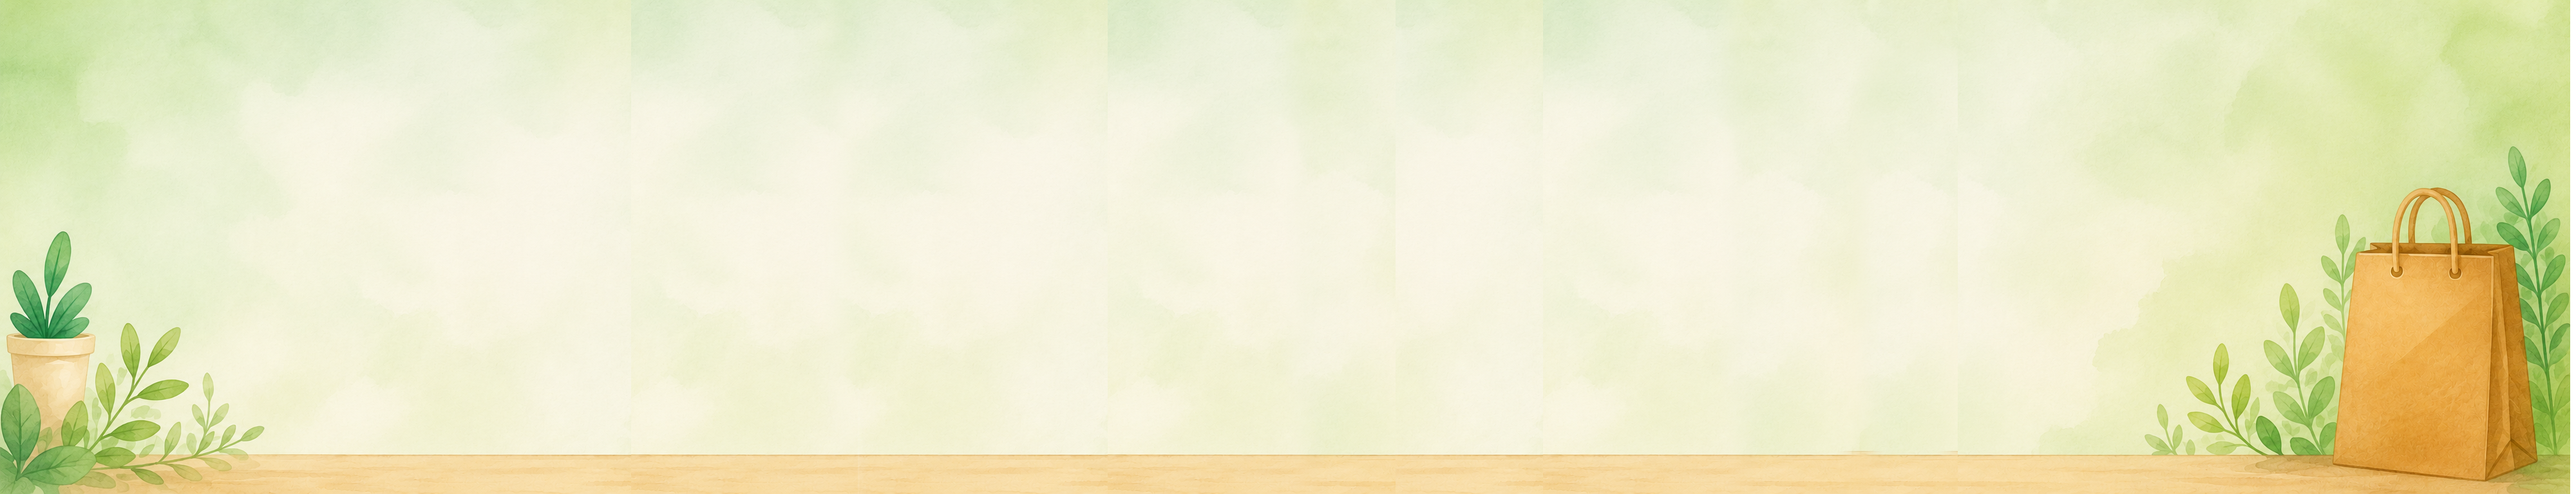
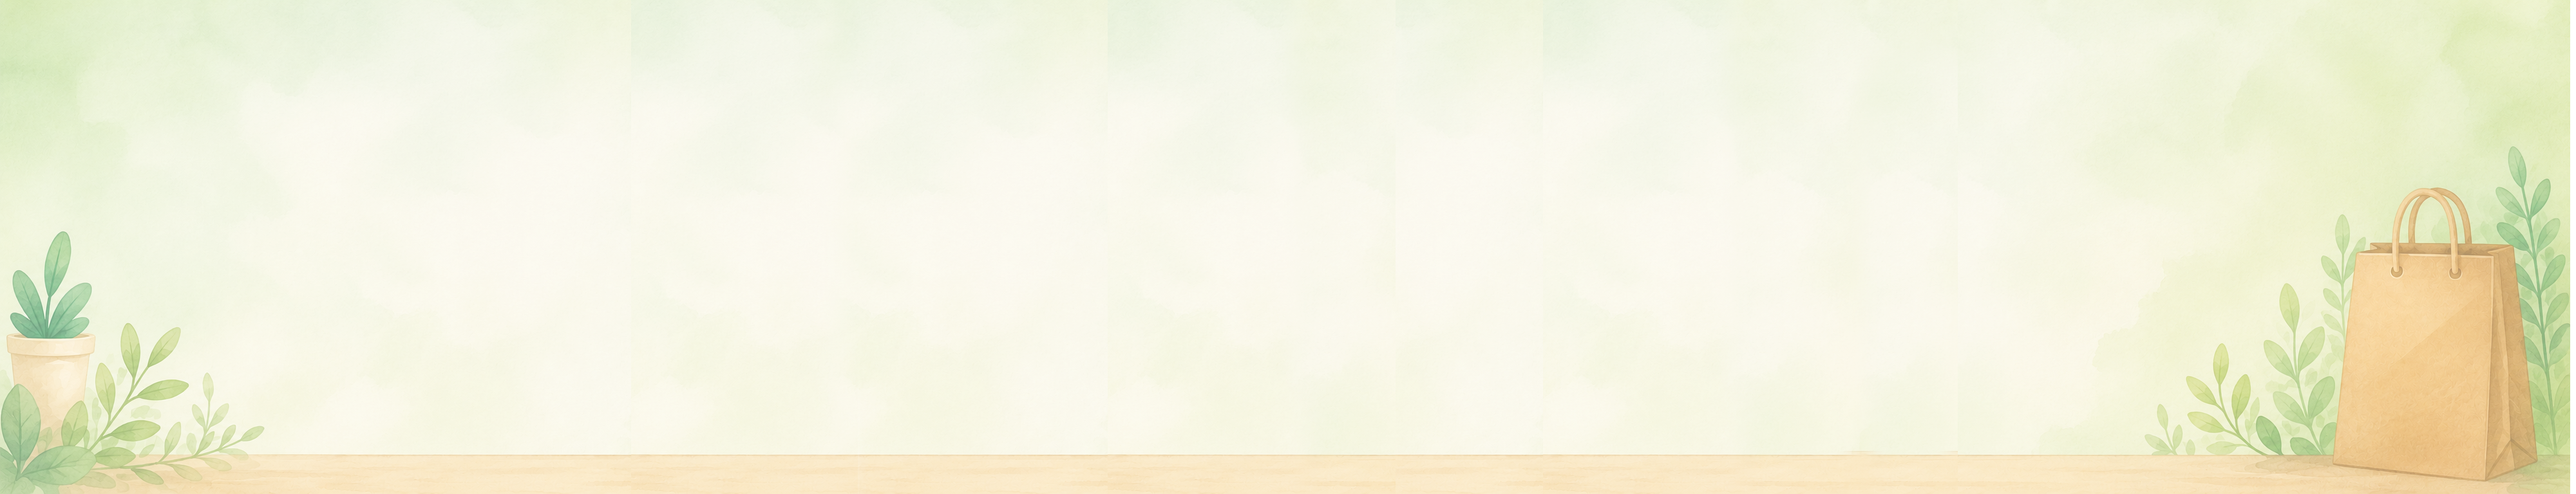
frontpage theming, plus search bar added

Changed region(s): [[0.0, 0.0, 1.0, 1.0], [0.0, 0.0, 0.125, 0.4375]]

diff --git a/web/modules/custom/product_search/js/product-search.js b/web/modules/custom/product_search/js/product-search.js
@@ -4,12 +4,12 @@
   Drupal.behaviors.productSearch = {
     attach(context) {
       once('product-search', '.product-search-widget', context).forEach((widget) => {
-        const input = widget.querySelector('.product-search-input');
+        const inputs = Array.from(widget.querySelectorAll('.product-search-input'));
         const results = widget.querySelector('.product-search-results');
-        const submit = widget.querySelector('.product-search-submit');
+        const submits = widget.querySelectorAll('.product-search-submit');
         const suggestions = widget.querySelectorAll('[data-search-suggestion]');
 
-        if (!input || !results) {
+        if (!inputs.length || !results) {
           return;
         }
 
@@ -17,13 +17,21 @@
         let timer = null;
         let controller = null;
 
-        const runSearch = () => {
-          const keyword = input.value.trim();
+        const runSearch = (sourceInput) => {
+          const keyword = sourceInput.value.trim();
+
+          inputs.forEach((input) => {
+            if (input !== sourceInput) {
+              input.value = sourceInput.value;
+            }
+          });
 
           if (keyword) {
             document.body.classList.add('searching');
+            document.body.classList.toggle('searching-primary', sourceInput.id !== 'product-search-input-secondary');
           } else {
             document.body.classList.remove('searching');
+            document.body.classList.remove('searching-primary');
           }
 
           if (controller) {
@@ -33,6 +41,7 @@
           // When the field is empty, restore the initially rendered View with
           // all products instead of showing a help message.
           if (!keyword) {
+            controller = null;
             results.innerHTML = defaultResultsHtml;
             results.setAttribute('aria-busy', 'false');
             Drupal.attachBehaviors(results);
@@ -43,6 +52,7 @@
           results.innerHTML = '<p class="product-search-loading">' + Drupal.t('Searching...') + '</p>';
 
           controller = new AbortController();
+          const requestController = controller;
 
           fetch(`${Drupal.url('search-product/ajax')}?q=${encodeURIComponent(keyword)}`, {
             method: 'GET',
@@ -69,30 +79,43 @@
               results.innerHTML = '<p class="product-search-error">' + Drupal.t('Search failed. Please try again.') + '</p>';
             })
             .finally(() => {
-              results.setAttribute('aria-busy', 'false');
+              if (controller === requestController) {
+                results.setAttribute('aria-busy', 'false');
+              }
             });
         };
 
-        input.addEventListener('input', () => {
-          window.clearTimeout(timer);
-          timer = window.setTimeout(runSearch, 250);
-        });
-
-        input.addEventListener('keydown', (event) => {
-          if (event.key === 'Enter') {
-            event.preventDefault();
+        inputs.forEach((input) => {
+          input.addEventListener('input', () => {
             window.clearTimeout(timer);
-            runSearch();
-          }
+            timer = window.setTimeout(() => runSearch(input), 250);
+          });
+
+          input.addEventListener('keydown', (event) => {
+            if (event.key === 'Enter') {
+              event.preventDefault();
+              window.clearTimeout(timer);
+              runSearch(input);
+            }
+          });
         });
 
-        submit?.addEventListener('click', runSearch);
+        submits.forEach((submit) => {
+          submit.addEventListener('click', () => {
+            const input = submit.closest('.product-search-form')?.querySelector('.product-search-input');
+            if (input) {
+              window.clearTimeout(timer);
+              runSearch(input);
+            }
+          });
+        });
 
         suggestions.forEach((suggestion) => {
           suggestion.addEventListener('click', () => {
+            const input = inputs[0];
             input.value = suggestion.dataset.searchSuggestion || '';
             input.focus();
-            runSearch();
+            runSearch(input);
           });
         });
       });

diff --git a/web/themes/gazda/css/homepage-discovery.css b/web/themes/gazda/css/homepage-discovery.css
@@ -1,5 +1,5 @@
 /* Discovery-led homepage. */
-.product-search-widget {
+body {
   --discovery-forest: #173f35;
   --discovery-forest-bright: #236652;
   --discovery-cream: #fbf8ef;
@@ -70,18 +70,21 @@ body.path-frontpage header.site-header a:focus-visible {
 
 .discovery-hero {
   position: relative;
+  z-index: 2;
   display: grid;
   grid-template-columns: minmax(0, 1.15fr) minmax(330px, 0.85fr);
   gap: clamp(32px, 5vw, 72px);
   align-items: center;
   min-height: 530px;
   padding: clamp(44px, 6vw, 82px);
+  padding-top: 20px;
+  padding-bottom: 10px;
   overflow: hidden;
   border: 1px solid #e7e3d2;
   border-radius: 32px;
   background-color: #f5f5e6;
   background-image: linear-gradient(90deg, rgba(251, 248, 239, 0.18), rgba(251, 248, 239, 0.72)), url("/themes/gazda/images/header-bg.png");
-  background-position: center;
+  background-position: left;
   background-size: cover;
   box-shadow: 0 26px 70px rgba(35, 58, 46, 0.09);
 }
@@ -294,6 +297,8 @@ body.path-frontpage header.site-header a:focus-visible {
 }
 
 .discovery-proof {
+  position: relative;
+  z-index: 1;
   display: grid;
   grid-template-columns: repeat(3, 1fr);
   margin: 0 clamp(20px, 4vw, 54px);
@@ -339,7 +344,7 @@ body.path-frontpage .views-shops-block {
   grid-template-columns: minmax(220px, 0.55fr) minmax(0, 1.45fr);
   gap: clamp(32px, 6vw, 86px);
   height: auto;
-  margin: clamp(70px, 9vw, 118px) 0 0;
+  margin: clamp(40px, 2vw, 70px) 0 0;
   padding: 0 clamp(8px, 3vw, 36px);
   align-items: center;
   justify-content: normal;
@@ -383,7 +388,7 @@ body.path-frontpage .views-shops-block .view-shops img {
 }
 
 .discovery-featured {
-  margin: clamp(72px, 9vw, 116px) 0 0;
+  margin: clamp(40px, 4vw, 70px) 0 0;
   padding: clamp(30px, 4vw, 52px);
   overflow: hidden;
   background: #f0efe3;
@@ -461,7 +466,7 @@ body.path-frontpage .views-shops-block .view-shops img {
   display: grid;
   grid-template-columns: minmax(0, 0.8fr) minmax(280px, 0.6fr);
   gap: 60px;
-  margin: clamp(76px, 10vw, 132px) 0 34px;
+  margin: clamp(40px, 4vw, 70px) 0 0;
   align-items: end;
 }
 
@@ -643,25 +648,25 @@ body.path-frontpage .product-search-results .view-products .views-field-promote.
   border-radius: 16px;
 }
 
-body.searching.path-frontpage .discovery-hero {
+body.searching-primary.path-frontpage .discovery-hero {
   min-height: 0;
   grid-template-columns: 1fr;
   padding-top: 42px;
   padding-bottom: 42px;
 }
 
-body.searching.path-frontpage .discovery-hero h1 {
+body.searching-primary.path-frontpage .discovery-hero h1 {
   max-width: 780px;
   font-size: clamp(2.25rem, 4vw, 3.6rem);
 }
 
-body.searching.path-frontpage .discovery-lead,
-body.searching.path-frontpage .discovery-story,
-body.searching.path-frontpage .discovery-proof,
-body.searching.path-frontpage .views-shops-block,
-body.searching.path-frontpage .discovery-featured,
-body.searching.path-frontpage .discovery-results-intro,
-body.searching.path-frontpage .discovery-counts {
+body.searching-primary.path-frontpage .discovery-lead,
+body.searching-primary.path-frontpage .discovery-story,
+body.searching-primary.path-frontpage .discovery-proof,
+body.searching-primary.path-frontpage .views-shops-block,
+body.searching-primary.path-frontpage .discovery-featured,
+body.searching-primary.path-frontpage .discovery-results-intro,
+body.searching-primary.path-frontpage .discovery-counts {
   display: none;
 }
 
@@ -803,7 +808,7 @@ body.searching.path-frontpage .product-search-results {
     width: auto;
   }
 
-  body.searching.path-frontpage .discovery-hero {
+  body.searching-primary.path-frontpage .discovery-hero {
     padding: 36px 22px;
   }
 }

diff --git a/web/themes/gazda/js/discovery-proof-scroll.js b/web/themes/gazda/js/discovery-proof-scroll.js
@@ -1,0 +1,84 @@
+(function ($, Drupal, once) {
+  'use strict';
+
+  Drupal.behaviors.discoveryProofScroll = {
+    attach(context) {
+      once('discovery-proof-scroll', '.discovery-proof', context).forEach((proof) => {
+        const $proof = $(proof);
+        const $hero = $proof.prev('.discovery-hero');
+        const $window = $(window);
+        const reducedMotion = window.matchMedia('(prefers-reduced-motion: reduce)').matches;
+        const duration = reducedMotion ? 0 : 360;
+        let triggerPoint = 0;
+        let tucked = false;
+        let frameRequested = false;
+
+        if (!$hero.length) {
+          return;
+        }
+
+        const measure = () => {
+          triggerPoint = $hero.offset().top + $hero.outerHeight() - (window.innerHeight * 0.45);
+        };
+
+        const tuck = () => {
+          tucked = true;
+          $proof
+            .attr('aria-hidden', 'true')
+            .addClass('is-tucking')
+            .stop(true, true)
+            .slideUp(duration, () => {
+              $proof.removeClass('is-tucking').addClass('is-tucked');
+            });
+        };
+
+        const reveal = () => {
+          tucked = false;
+          $proof
+            .removeAttr('aria-hidden')
+            .removeClass('is-tucked')
+            .addClass('is-revealing')
+            .stop(true, true)
+            .slideDown(duration, () => {
+              $proof
+                .removeClass('is-revealing')
+                .css('display', '');
+            });
+        };
+
+        const update = () => {
+          frameRequested = false;
+
+          if (document.body.classList.contains('searching')) {
+            return;
+          }
+
+          const scrollTop = $window.scrollTop();
+          if (!tucked && scrollTop > triggerPoint + 24) {
+            tuck();
+          }
+          else if (tucked && scrollTop < triggerPoint - 24) {
+            reveal();
+          }
+        };
+
+        const requestUpdate = () => {
+          if (!frameRequested) {
+            frameRequested = true;
+            window.requestAnimationFrame(update);
+          }
+        };
+
+        measure();
+        requestUpdate();
+
+        $window.on('scroll.discoveryProof', requestUpdate);
+        $window.on('resize.discoveryProof', () => {
+          measure();
+          requestUpdate();
+        });
+      });
+    }
+  };
+
+})(jQuery, Drupal, once);

diff --git a/web/modules/custom/product_search/css/product-search.css b/web/modules/custom/product_search/css/product-search.css
@@ -59,7 +59,7 @@ body.path-search-product .product-search-widget {
 
 body.path-search-product #marketing-block { display: block; }
 
-body.searching {
+body.searching-primary {
   .product-search-widget {
     background: none;
     background-position: 0 -120px;
